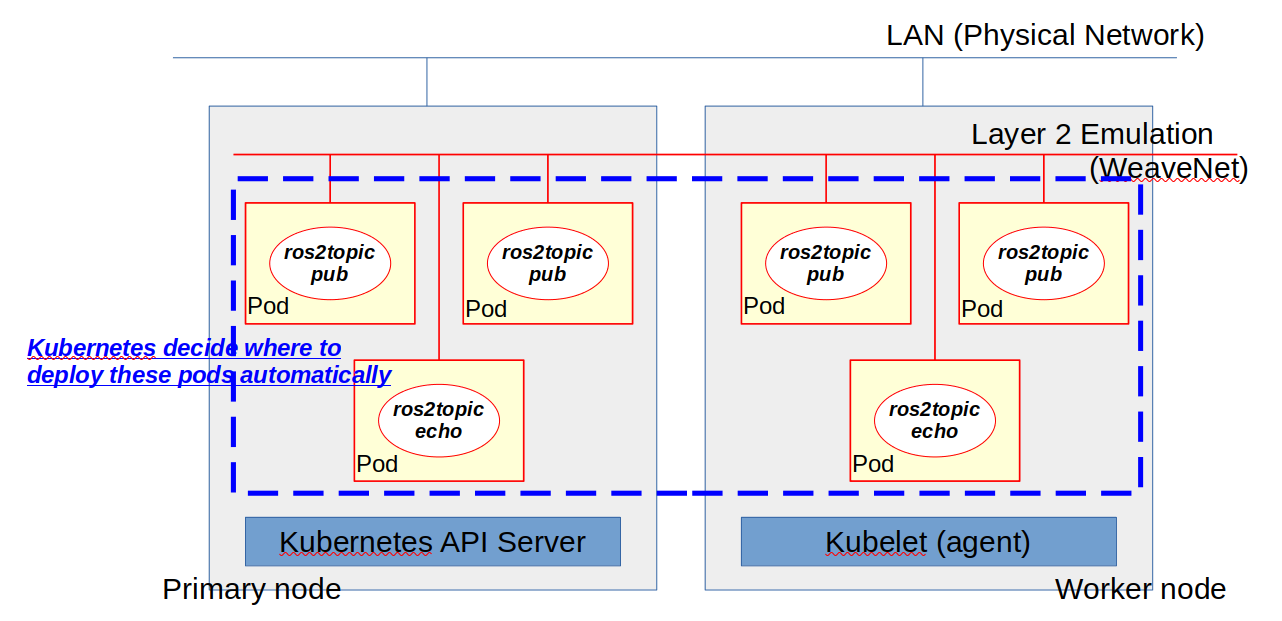
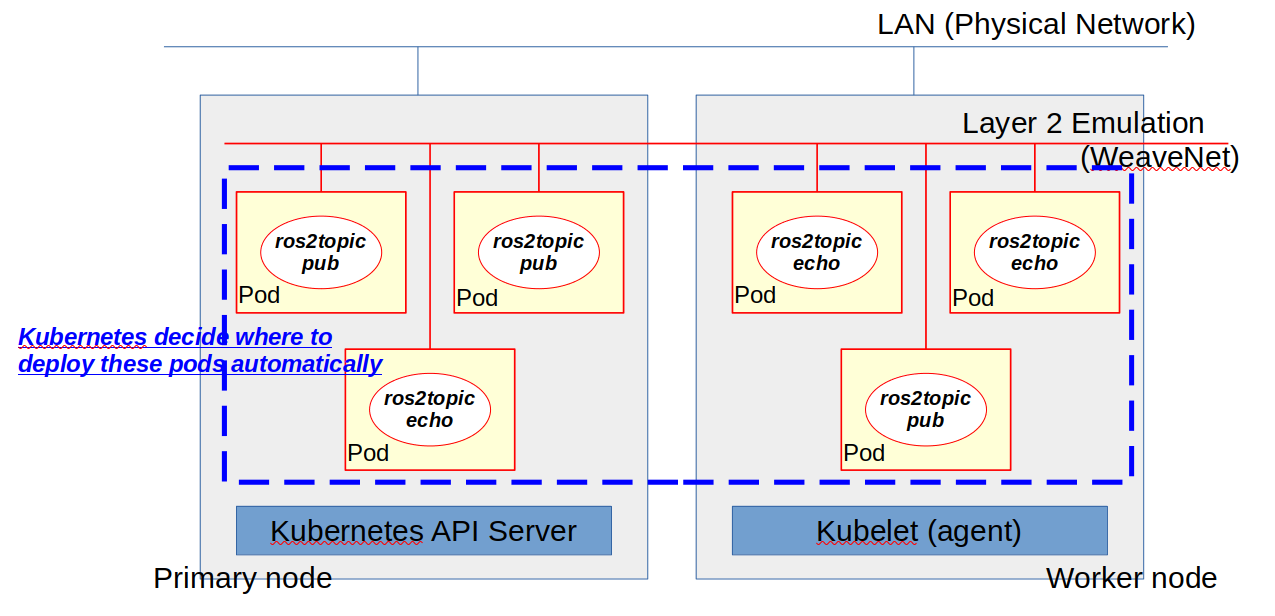
add ROS 2 localhost only communication.

Changed region(s): [[0.0, 0.0, 0.9788, 0.987]]

diff --git a/docs/ROS2_Deployment_Demonstration.md b/docs/ROS2_Deployment_Demonstration.md
@@ -94,7 +94,52 @@ data: Hello, I am talker-3
 ...
 ```
 
-### XXX
+### ROS 2 Localhost Only
+
+This sample description starts deployment multiple application pods for each cluster node.
+Application containers in each pod will only start communication in localhost only with `ROS_LOCALHOST_ONLY=1` environmental variable which is bound to application container runtime.
+
+The following diagram gives you an good example and overview what is going on this deployment.
+
+Taking advantage virtual network interface from CNI plugin, we can even have multiple localhost network in single cluster node.
+This is useful to multiple users in single cluster system, it just appears to be for users to have dedicated network interfaces so that it will not affect any other ROS 2 communication.
+
+**see deployment description [ROS 2 Simple Distributed System](./../yaml/ros2-localhost.yaml)**
+
+![ROS noetic Multiple Node Deployment](./../images/ros2_localhost_only.png)
+
+-  Start deployment and check availability
+
+```bash
+root@tomoyafujita-HP-Compaq-Elite-8300-SFF:/ros_k8s/yaml# kubectl apply -f ros2-localhost.yaml
+daemonset.apps/ros2-deamonset-1 created
+daemonset.apps/ros2-deamonset-2 created
+
+root@tomoyafujita-HP-Compaq-Elite-8300-SFF:/ros_k8s/yaml# kubectl get pods -o wide
+NAME                     READY   STATUS    RESTARTS   AGE    IP           NODE                                    NOMINATED NODE   READINESS GATES
+ros2-deamonset-1-68bt2   2/2     Running   0          5m2s   10.44.0.3    ubuntu                                  <none>           <none>
+ros2-deamonset-1-zp2lq   2/2     Running   0          5m2s   10.32.0.11   tomoyafujita-hp-compaq-elite-8300-sff   <none>           <none>
+ros2-deamonset-2-lgbnp   2/2     Running   0          5m     10.44.0.7    ubuntu                                  <none>           <none>
+ros2-deamonset-2-mf69r   2/2     Running   0          5m2s   10.32.0.12   tomoyafujita-hp-compaq-elite-8300-sff   <none>           <none>
+```
+
+- Check each pod to see if localhost communication actually takes place.
+
+```bash
+root@ros2-talker-1-54f5fb9dcd-2dlv6:/# command terminated with exit code 137
+root@tomoyafujita-HP-Compaq-Elite-8300-SFF:~# kubectl exec --stdin --tty ros2-deamonset-1-68bt2 -- /bin/bash
+Defaulted container "ros2-talker-1" out of: ros2-talker-1, ros2-listener-1
+root@ros2-deamonset-1-68bt2:/# echo $ROS_LOCALHOST_ONLY
+1
+root@ros2-deamonset-1-68bt2:/# source /opt/ros/rolling/setup.bash
+root@ros2-deamonset-1-68bt2:/# ros2 node list
+/listener
+/talker
+root@ros2-deamonset-1-68bt2:/# ros2 topic list
+/chatter
+/parameter_events
+/rosout
+```
 
 ### XXX
 
